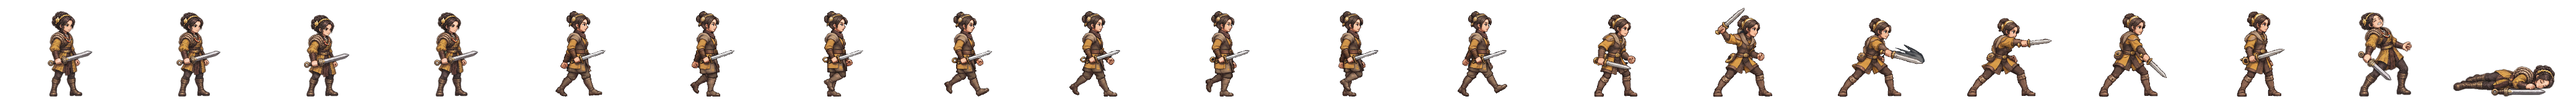
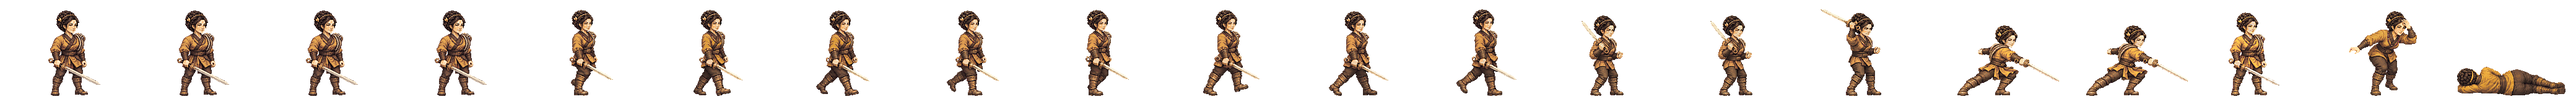
음즙 벌 새 전투 띠를 게임에 넣음(서기·걷기·한 손 칼 내려베기 여덟 칸·쓰러짐·칼날 닦기)
내려베기 a 판은 몸이 서기·b 판보다 가늘어 한 번 다시 그렸으나, 다시 그린 판은 보폭이 넓어 굽기에서 몸이 57px 튀었다. 발 자리가 맞는 앞 판을 씀.

Claude-Session: https://claude.ai/code/session_01TRiuN7s6aDfSnaHxrkctmU

diff --git a/src/realm/data/spritePx.ts b/src/realm/data/spritePx.ts
@@ -1,3 +1,3 @@
 /** public/realm/anim-px/manifest.json 의 사본 — tools/sprite-normalize.mjs 가 만든다 (손으로 고치지 말 것). 칸 [가로, 세로] · feet = 발 줄(칸 위에서 y) · bodyPx = 서 있는 몸 키 */
 import { expandManifest } from './sprite-manifest.ts'
-export const SPRITE_PX: Readonly<Record<string, { readonly cell: readonly [number, number]; readonly feet: number; readonly bodyPx: number; readonly kind: 'general' | 'soldier' | 'folk' | 'crowd'; readonly cells: number }>> = expandManifest<{ readonly cell: readonly [number, number]; readonly feet: number; readonly bodyPx: number; readonly kind: 'general' | 'soldier' | 'folk' | 'crowd'; readonly cells: number }>([{"cell":[166,128],"feet":126,"bodyPx":124,"kind":"soldier","cells":20},{"cell":[116,128],"feet":126,"bodyPx":117,"kind":"soldier","cells":20},{"cell":[127,128],"feet":126,"bodyPx":116,"kind":"soldier","cells":20},{"cell":[269,128],"feet":126,"bodyPx":126,"kind":"soldier","cells":20},{"cell":[503,128],"feet":126,"bodyPx":127,"kind":"soldier","cells":20},{"cell":[614,128],"feet":126,"bodyPx":126,"kind":"soldier","cells":20},{"cell":[200,160],"feet":156,"bodyPx":138,"kind":"general","cells":20},{"cell":[208,160],"feet":155,"bodyPx":138,"kind":"general","cells":20},{"cell":[208,160],"feet":154,"bodyPx":138,"kind":"general","cells":20},{"cell":[304,160],"feet":155,"bodyPx":135,"kind":"general","cells":20},{"cell":[224,160],"feet":156,"bodyPx":139,"kind":"general","cells":20},{"cell":[184,160],"feet":156,"bodyPx":138,"kind":"general","cells":20},{"cell":[208,160],"feet":154,"bodyPx":136,"kind":"general","cells":20},{"cell":[240,160],"feet":156,"bodyPx":138,"kind":"general","cells":20},{"cell":[232,160],"feet":156,"bodyPx":138,"kind":"general","cells":20},{"cell":[208,160],"feet":156,"bodyPx":138,"kind":"general","cells":20},{"cell":[168,160],"feet":156,"bodyPx":138,"kind":"general","cells":20},{"cell":[192,160],"feet":156,"bodyPx":138,"kind":"general","cells":20},{"cell":[168,160],"feet":156,"bodyPx":124,"kind":"general","cells":20},{"cell":[216,160],"feet":156,"bodyPx":130,"kind":"general","cells":20},{"cell":[200,160],"feet":156,"bodyPx":116,"kind":"general","cells":20},{"cell":[200,160],"feet":156,"bodyPx":135,"kind":"general","cells":20},{"cell":[280,160],"feet":156,"bodyPx":138,"kind":"general","cells":20},{"cell":[232,160],"feet":155,"bodyPx":138,"kind":"general","cells":20},{"cell":[232,160],"feet":156,"bodyPx":134,"kind":"general","cells":20},{"cell":[144,160],"feet":156,"bodyPx":70,"kind":"general","cells":20},{"cell":[208,160],"feet":156,"bodyPx":70,"kind":"general","cells":20},{"cell":[192,160],"feet":156,"bodyPx":70,"kind":"general","cells":20},{"cell":[240,160],"feet":155,"bodyPx":138,"kind":"general","cells":20},{"cell":[160,160],"feet":156,"bodyPx":135,"kind":"general","cells":20},{"cell":[192,160],"feet":156,"bodyPx":128,"kind":"general","cells":20},{"cell":[224,160],"feet":155,"bodyPx":138,"kind":"general","cells":20},{"cell":[232,160],"feet":156,"bodyPx":139,"kind":"general","cells":20},{"cell":[216,160],"feet":156,"bodyPx":138,"kind":"general","cells":20},{"cell":[208,160],"feet":156,"bodyPx":134,"kind":"general","cells":20},{"cell":[176,160],"feet":156,"bodyPx":130,"kind":"general","cells":20},{"cell":[248,160],"feet":156,"bodyPx":138,"kind":"general","cells":20},{"cell":[248,160],"feet":155,"bodyPx":138,"kind":"general","cells":20},{"cell":[192,160],"feet":155,"bodyPx":138,"kind":"general","cells":20},{"cell":[192,160],"feet":156,"bodyPx":124,"kind":"general","cells":20},{"cell":[208,160],"feet":154,"bodyPx":131,"kind":"general","cells":20},{"cell":[256,160],"feet":156,"bodyPx":138,"kind":"general","cells":20},{"cell":[232,160],"feet":156,"bodyPx":73,"kind":"general","cells":20},{"cell":[256,160],"feet":155,"bodyPx":138,"kind":"general","cells":20},{"cell":[264,160],"feet":156,"bodyPx":138,"kind":"general","cells":20},{"cell":[224,160],"feet":156,"bodyPx":138,"kind":"general","cells":20},{"cell":[224,160],"feet":156,"bodyPx":128,"kind":"general","cells":20},{"cell":[176,160],"feet":156,"bodyPx":129,"kind":"general","cells":20},{"cell":[208,160],"feet":154,"bodyPx":139,"kind":"general","cells":20},{"cell":[208,160],"feet":156,"bodyPx":132,"kind":"general","cells":20},{"cell":[216,160],"feet":155,"bodyPx":138,"kind":"general","cells":20},{"cell":[184,160],"feet":156,"bodyPx":122,"kind":"general","cells":20},{"cell":[176,160],"feet":156,"bodyPx":138,"kind":"general","cells":20},{"cell":[280,160],"feet":155,"bodyPx":133,"kind":"general","cells":20},{"cell":[176,160],"feet":156,"bodyPx":70,"kind":"general","cells":20},{"cell":[186,128],"feet":126,"bodyPx":127,"kind":"soldier","cells":20},{"cell":[298,128],"feet":126,"bodyPx":126,"kind":"soldier","cells":20},{"cell":[82,128],"feet":126,"bodyPx":114,"kind":"folk","cells":8},{"cell":[134,128],"feet":126,"bodyPx":119,"kind":"soldier","cells":20},{"cell":[380,128],"feet":126,"bodyPx":124,"kind":"soldier","cells":20},{"cell":[114,128],"feet":126,"bodyPx":115,"kind":"soldier","cells":20},{"cell":[122,128],"feet":126,"bodyPx":114,"kind":"soldier","cells":20},{"cell":[254,128],"feet":126,"bodyPx":128,"kind":"soldier","cells":20},{"cell":[438,128],"feet":126,"bodyPx":126,"kind":"soldier","cells":20},{"cell":[88,128],"feet":126,"bodyPx":113,"kind":"folk","cells":8},{"cell":[100,128],"feet":126,"bodyPx":115,"kind":"folk","cells":8},{"cell":[108,128],"feet":126,"bodyPx":115,"kind":"folk","cells":8},{"cell":[63,128],"feet":126,"bodyPx":113,"kind":"folk","cells":8},{"cell":[69,96],"feet":96,"bodyPx":96,"kind":"crowd","cells":1},{"cell":[54,96],"feet":96,"bodyPx":96,"kind":"crowd","cells":1},{"cell":[47,96],"feet":96,"bodyPx":96,"kind":"crowd","cells":1},{"cell":[49,96],"feet":96,"bodyPx":96,"kind":"crowd","cells":1},{"cell":[57,96],"feet":96,"bodyPx":96,"kind":"crowd","cells":1},{"cell":[55,96],"feet":96,"bodyPx":96,"kind":"crowd","cells":1},{"cell":[45,96],"feet":96,"bodyPx":96,"kind":"crowd","cells":1},{"cell":[53,96],"feet":96,"bodyPx":96,"kind":"crowd","cells":1},{"cell":[64,96],"feet":96,"bodyPx":96,"kind":"crowd","cells":1},{"cell":[184,160],"feet":156,"bodyPx":124,"kind":"general","cells":20},{"cell":[184,160],"feet":156,"bodyPx":134,"kind":"general","cells":20},{"cell":[224,160],"feet":156,"bodyPx":133,"kind":"general","cells":20},{"cell":[192,160],"feet":156,"bodyPx":135,"kind":"general","cells":20},{"cell":[184,160],"feet":156,"bodyPx":137,"kind":"general","cells":20},{"cell":[216,160],"feet":156,"bodyPx":134,"kind":"general","cells":20},{"cell":[216,160],"feet":156,"bodyPx":132,"kind":"general","cells":20},{"cell":[288,160],"feet":156,"bodyPx":138,"kind":"general","cells":20},{"cell":[192,160],"feet":156,"bodyPx":118,"kind":"general","cells":20},{"cell":[192,160],"feet":156,"bodyPx":134,"kind":"general","cells":20},{"cell":[192,160],"feet":157,"bodyPx":139,"kind":"general","cells":20},{"cell":[184,160],"feet":156,"bodyPx":128,"kind":"general","cells":20},{"cell":[240,160],"feet":156,"bodyPx":128,"kind":"general","cells":20},{"cell":[184,160],"feet":156,"bodyPx":132,"kind":"general","cells":20},{"cell":[208,160],"feet":156,"bodyPx":123,"kind":"general","cells":20},{"cell":[208,160],"feet":154,"bodyPx":137,"kind":"general","cells":20},{"cell":[176,160],"feet":156,"bodyPx":116,"kind":"general","cells":20},{"cell":[272,160],"feet":156,"bodyPx":138,"kind":"general","cells":20},{"cell":[176,160],"feet":156,"bodyPx":122,"kind":"general","cells":20},{"cell":[232,160],"feet":156,"bodyPx":127,"kind":"general","cells":20},{"cell":[176,160],"feet":156,"bodyPx":137,"kind":"general","cells":20},{"cell":[184,160],"feet":156,"bodyPx":133,"kind":"general","cells":20}],[["axe",0],["bandit-chief",1],["bandit-club",2],["boat",3],["bow",4],["crossbow",5],["gen-adogan",6],["gen-alpyeong",7],["gen-ara",8],["gen-areum",8],["gen-aryeong",9],["gen-bakdal",6],["gen-baram",10],["gen-bdanbi",11],["gen-beom",12],["gen-beombal",11],["gen-beomi",13],["gen-bira",14],["gen-biryu",15],["gen-budeul",16],["gen-byeol",17],["gen-daemusin",18],["gen-daeso",19],["gen-dallae2",11],["gen-dalli",11],["gen-damul",20],["gen-danbi",15],["gen-dangung",17],["gen-darae",21],["gen-dokmudeom",7],["gen-duman",22],["gen-eomni",23],["gen-eureum",24],["gen-g-bow",25],["gen-g-spear",26],["gen-g-sword",27],["gen-gaennae",6],["gen-gamsil",28],["gen-gaon",29],["gen-geota",15],["gen-geumbawi",11],["gen-geumha",30],["gen-goeun",15],["gen-gom",31],["gen-gomok",15],["gen-gureum",28],["gen-guryema",17],["gen-gwaeyu",14],["gen-haebi",8],["gen-haedal",6],["gen-haesol",32],["gen-halla",7],["gen-heo",8],["gen-hneoul",11],["gen-hogong",33],["gen-hojin",15],["gen-horselord",34],["gen-hwalmi",35],["gen-hyeokgeose",17],["gen-hyeopbo",6],["gen-irang",15],["gen-jibaekho",36],["gen-jinha",37],["gen-jita",38],["gen-jumong",39],["gen-keundol",7],["gen-maehwa",40],["gen-maenun",17],["gen-malgalgi",41],["gen-mari",13],["gen-maro",36],["gen-maryeo",15],["gen-mdallae",32],["gen-mir",6],["gen-mount",42],["gen-mulbeom",43],["gen-mulsae",33],["gen-musoe",33],["gen-noeul",8],["gen-nuri",44],["gen-ocheongan",45],["gen-odi",37],["gen-odogan",6],["gen-ogan",17],["gen-oi",46],["gen-olddaeso",24],["gen-onjo",47],["gen-pidogan",15],["gen-sagong",48],["gen-sdallae",6],["gen-sincheongan",33],["gen-singwigan",33],["gen-sinneoul",8],["gen-sobeol",23],["gen-soebi",6],["gen-soebo",49],["gen-soenun",36],["gen-sogeumbi",50],["gen-songbi",45],["gen-songyang",51],["gen-sori",52],["gen-soseono",53],["gen-suro",17],["gen-tahae",6],["gen-tneoul",45],["gen-w-bow",25],["gen-w-spear",54],["gen-waechief",15],["gen-wan",33],["gen-yeodogan",15],["gen-yucheongan",15],["gen-yusugan",36],["horse",55],["marine",56],["migrant",57],["militia",58],["pike",59],["pirate-captain",60],["pirate-sword",61],["shield",62],["spear",63],["villager-builder",64],["villager-farmer",65],["villager-porter",66],["villager-woman",67],["crowd-b1",68],["crowd-b2",69],["crowd-b3",70],["crowd-b4",71],["crowd-b5",72],["crowd-b6",73],["crowd-f1",68],["crowd-f2",73],["crowd-f3",74],["crowd-f4",75],["crowd-f5",68],["crowd-f6",76],["gen-dalbit",15],["gen-base-g-07-drunk-warrior",17],["gen-base-g-40-anya-adan",15],["gen-base-w-13-young-archer",8],["gen-base-g-03-sea-trader",13],["gen-base-w-10-pirate-captain",48],["gen-base-w-64-miri-dallae",48],["gen-base-g-41-goja-bau",13],["gen-base-g-42-dokro-garam",44],["gen-base-g-09-farmer-conscript",33],["gen-base-w-02-goguryeo-lady",33],["gen-base-w-17-mahan-pearl-diver",8],["gen-base-g-17-saro-isageum",49],["gen-base-g-18-daegaya-king",77],["gen-base-g-35-dabeol-dalgu",15],["gen-base-g-19-sabeol-veteran",33],["gen-base-w-23-usisan-whale-queen",8],["gen-base-g-36-gammun-gamdol",45],["gen-base-g-20-samul-sea-lord",41],["gen-base-g-37-eumjeup-jeup",11],["gen-base-g-38-chopal-palmae",17],["gen-base-w-75-daegaya-soemoe",17],["gen-base-g-45-dabeol-deulgae",11],["gen-base-g-04-jinhan-giant",15],["gen-base-g-08-veteran",15],["gen-base-w-18-jinhan-salt-widow",15],["gen-base-w-12-court-dancer",78],["gen-base-w-83-gyeonji-beodeul",79],["gen-base-w-05-baekje-queen",80],["gen-base-w-21-baekje-court-dancer",11],["gen-base-g-01-master-smith",81],["gen-base-g-93-jomun-solgae",35],["gen-base-g-57-bihwa-neup",13],["gen-base-w-72-eumjeup-beol",15],["gen-base-w-102-garak-dana",33],["gen-base-g-68-baekje-onnuri",15],["gen-base-w-27-mokji-jinha",6],["gen-base-g-22-ungcheon-gomnae",6],["gen-base-g-23-sangdang-soedal",15],["gen-base-g-24-wansan-onsan",6],["gen-base-g-25-balla-keunmoe",33],["gen-base-g-61-heomcheuk-bawi",33],["gen-base-g-88-wander-soeul",45],["gen-base-w-14-feast-spy",6],["gen-base-g-12-silla-youth",82],["gen-base-w-08-mahan-warrior",8],["gen-base-g-62-beonye-hanul",13],["gen-base-g-63-heomcheuk-beogeum",15],["gen-base-g-84-wander-seoneul",15],["gen-base-w-50-siljik-mulga",33],["gen-base-g-46-uga-nureongso",33],["gen-base-w-80-usan-gangchi",13],["gen-base-g-47-guga-sanyanggae",33],["gen-base-w-76-gampyeong-baetsagong",36],["gen-base-g-05-mahan-chieftain",83],["gen-base-g-58-usan-uhae",15],["gen-base-g-27-maek-maekdol",15],["gen-base-w-53-hwanna-gabi",16],["gen-base-w-29-golpo-janmul",36],["gen-base-g-53-baekje-haeru",6],["gen-base-w-71-yeonna-neoul",13],["gen-base-w-79-yangmaek-solmae",33],["gen-base-w-34-chopal-deulme",44],["gen-base-g-44-maga-malgup",84],["gen-base-w-31-dabeol-dalbit",48],["gen-base-g-51-biryuna-mulgyeol",45],["gen-base-g-48-gwanna-musoe",15],["gen-base-g-32-uga-sodu",14],["gen-base-g-49-goguryeo-sona",85],["gen-base-g-30-gwanna-soemoe",45],["gen-base-g-52-tamna-oreum",11],["gen-base-g-29-yeonna-myeongsol",39],["gen-base-w-56-dongokjeo-sogeum",86],["gen-base-g-54-mokji-mahan",14],["gen-base-g-33-jeoga-metdol",17],["gen-base-w-36-baekje-maena",17],["gen-base-w-38-sangdang-bulmae",6],["gen-base-w-39-gosaburi-galmae",87],["gen-base-w-40-mujin-munui",49],["gen-base-w-41-hwanna-beodeul",88],["gen-base-w-43-uga-nuri",41],["gen-base-w-45-tamna-oreumbi",11],["gen-base-g-60-golbeol-golgae",11],["gen-base-g-61-apdok-ap",33],["gen-base-g-62-gammun-gamnamu",6],["gen-base-g-63-chopal-yeoul",36],["gen-base-g-64-michuhol-sogeumkkun",13],["gen-base-g-65-sangdang-soemangchi",45],["gen-base-g-66-geonma-malbalgup",89],["gen-base-g-67-gosaburi-buri",90],["gen-base-g-68-mujin-bitgoeul",11],["gen-base-g-69-goryong-yong",45],["gen-base-g-70-siljik-pado",13],["gen-base-w-81-byeokjin-byeolbit",14],["gen-base-w-46-geonma-maru",36],["gen-base-w-48-mujin-mudeung",13],["gen-base-g-26-gampyeong-gaetbeol",14],["gen-base-g-60-eupcha-hangyeol",91],["gen-base-g-15-shaman-man",33],["gen-base-g-85-wander-ure",36],["gen-base-g-43-hwanna-amnok",15],["gen-base-g-50-bullae-gwaha",80],["gen-base-g-55-saro-bakdal",15],["gen-base-g-56-haseulla-gwahama",6],["gen-base-w-06-buyeo-huntress",92],["gen-base-w-22-dongye-tiger-huntress",8],["gen-base-w-25-bihwa-priestess",33],["gen-base-w-24-apdok-queen",11],["gen-base-w-61-iseo-sinae",15],["gen-base-w-26-iseo-tomboy-general",8],["gen-base-g-59-yangmaek-maekson",93],["gen-aw1-haebi",45],["gen-aw1-soseono",94],["gen-aw1-gamsil",11],["gen-aw1-mir",52],["gen-aw1-dangung",6],["gen-aw1-ara",45],["gen-aw1-jumong",95],["gen-aw1-onjo",96],["gen-aw1-base-w-83-gyeonji-beodeul",17],["gen-aw1-heo",44],["gen-aw1-base-g-38-chopal-palmae",6],["gen-aw1-base-w-25-bihwa-priestess",78],["gen-aw1-sori",16],["gen-aw1-gomok",6],["gen-aw1-irang",17],["gen-aw1-budeul",16],["gen-aw1-gom",13],["gen-aw1-sdallae",6],["gen-aw1-base-w-13-young-archer",6],["gen-aw1-base-w-36-baekje-maena",97],["gen-aw1-base-g-09-farmer-conscript",44],["gen-aw1-base-w-02-goguryeo-lady",98],["gen-aw1-haedal",11],["gen-aw1-hogong",6],["gen-aw1-maehwa",52],["gen-aw1-base-w-06-buyeo-huntress",14],["gen-aw1-base-w-08-mahan-warrior",45],["gen-aw1-base-w-29-golpo-janmul",45],["gen-aw1-base-w-31-dabeol-dalbit",17],["gen-aw1-base-w-38-sangdang-bulmae",16],["gen-aw1-bira",33],["gen-aw1-base-w-53-hwanna-gabi",16],["gen-aw1-base-w-56-dongokjeo-sogeum",52],["gen-aw1-base-w-72-eumjeup-beol",17],["gen-aw1-bdanbi",16],["gen-aw1-beom",11],["gen-aw1-beombal",11],["gen-aw1-byeol",17],["gen-aw1-dalli",52],["gen-aw1-malgalgi",36],["gen-aw1-sincheongan",33]])
+export const SPRITE_PX: Readonly<Record<string, { readonly cell: readonly [number, number]; readonly feet: number; readonly bodyPx: number; readonly kind: 'general' | 'soldier' | 'folk' | 'crowd'; readonly cells: number }>> = expandManifest<{ readonly cell: readonly [number, number]; readonly feet: number; readonly bodyPx: number; readonly kind: 'general' | 'soldier' | 'folk' | 'crowd'; readonly cells: number }>([{"cell":[166,128],"feet":126,"bodyPx":124,"kind":"soldier","cells":20},{"cell":[116,128],"feet":126,"bodyPx":117,"kind":"soldier","cells":20},{"cell":[127,128],"feet":126,"bodyPx":116,"kind":"soldier","cells":20},{"cell":[269,128],"feet":126,"bodyPx":126,"kind":"soldier","cells":20},{"cell":[503,128],"feet":126,"bodyPx":127,"kind":"soldier","cells":20},{"cell":[614,128],"feet":126,"bodyPx":126,"kind":"soldier","cells":20},{"cell":[200,160],"feet":156,"bodyPx":138,"kind":"general","cells":20},{"cell":[208,160],"feet":155,"bodyPx":138,"kind":"general","cells":20},{"cell":[208,160],"feet":154,"bodyPx":138,"kind":"general","cells":20},{"cell":[304,160],"feet":155,"bodyPx":135,"kind":"general","cells":20},{"cell":[224,160],"feet":156,"bodyPx":139,"kind":"general","cells":20},{"cell":[184,160],"feet":156,"bodyPx":138,"kind":"general","cells":20},{"cell":[208,160],"feet":154,"bodyPx":136,"kind":"general","cells":20},{"cell":[240,160],"feet":156,"bodyPx":138,"kind":"general","cells":20},{"cell":[232,160],"feet":156,"bodyPx":138,"kind":"general","cells":20},{"cell":[208,160],"feet":156,"bodyPx":138,"kind":"general","cells":20},{"cell":[168,160],"feet":156,"bodyPx":138,"kind":"general","cells":20},{"cell":[192,160],"feet":156,"bodyPx":138,"kind":"general","cells":20},{"cell":[168,160],"feet":156,"bodyPx":124,"kind":"general","cells":20},{"cell":[216,160],"feet":156,"bodyPx":130,"kind":"general","cells":20},{"cell":[200,160],"feet":156,"bodyPx":116,"kind":"general","cells":20},{"cell":[200,160],"feet":156,"bodyPx":135,"kind":"general","cells":20},{"cell":[280,160],"feet":156,"bodyPx":138,"kind":"general","cells":20},{"cell":[232,160],"feet":155,"bodyPx":138,"kind":"general","cells":20},{"cell":[232,160],"feet":156,"bodyPx":134,"kind":"general","cells":20},{"cell":[144,160],"feet":156,"bodyPx":70,"kind":"general","cells":20},{"cell":[208,160],"feet":156,"bodyPx":70,"kind":"general","cells":20},{"cell":[192,160],"feet":156,"bodyPx":70,"kind":"general","cells":20},{"cell":[240,160],"feet":155,"bodyPx":138,"kind":"general","cells":20},{"cell":[160,160],"feet":156,"bodyPx":135,"kind":"general","cells":20},{"cell":[192,160],"feet":156,"bodyPx":128,"kind":"general","cells":20},{"cell":[224,160],"feet":155,"bodyPx":138,"kind":"general","cells":20},{"cell":[232,160],"feet":156,"bodyPx":139,"kind":"general","cells":20},{"cell":[216,160],"feet":156,"bodyPx":138,"kind":"general","cells":20},{"cell":[208,160],"feet":156,"bodyPx":134,"kind":"general","cells":20},{"cell":[176,160],"feet":156,"bodyPx":130,"kind":"general","cells":20},{"cell":[248,160],"feet":156,"bodyPx":138,"kind":"general","cells":20},{"cell":[248,160],"feet":155,"bodyPx":138,"kind":"general","cells":20},{"cell":[192,160],"feet":155,"bodyPx":138,"kind":"general","cells":20},{"cell":[192,160],"feet":156,"bodyPx":124,"kind":"general","cells":20},{"cell":[208,160],"feet":154,"bodyPx":131,"kind":"general","cells":20},{"cell":[256,160],"feet":156,"bodyPx":138,"kind":"general","cells":20},{"cell":[232,160],"feet":156,"bodyPx":73,"kind":"general","cells":20},{"cell":[256,160],"feet":155,"bodyPx":138,"kind":"general","cells":20},{"cell":[264,160],"feet":156,"bodyPx":138,"kind":"general","cells":20},{"cell":[224,160],"feet":156,"bodyPx":138,"kind":"general","cells":20},{"cell":[224,160],"feet":156,"bodyPx":128,"kind":"general","cells":20},{"cell":[176,160],"feet":156,"bodyPx":129,"kind":"general","cells":20},{"cell":[208,160],"feet":154,"bodyPx":139,"kind":"general","cells":20},{"cell":[208,160],"feet":156,"bodyPx":132,"kind":"general","cells":20},{"cell":[216,160],"feet":155,"bodyPx":138,"kind":"general","cells":20},{"cell":[184,160],"feet":156,"bodyPx":122,"kind":"general","cells":20},{"cell":[176,160],"feet":156,"bodyPx":138,"kind":"general","cells":20},{"cell":[280,160],"feet":155,"bodyPx":133,"kind":"general","cells":20},{"cell":[176,160],"feet":156,"bodyPx":70,"kind":"general","cells":20},{"cell":[186,128],"feet":126,"bodyPx":127,"kind":"soldier","cells":20},{"cell":[298,128],"feet":126,"bodyPx":126,"kind":"soldier","cells":20},{"cell":[82,128],"feet":126,"bodyPx":114,"kind":"folk","cells":8},{"cell":[134,128],"feet":126,"bodyPx":119,"kind":"soldier","cells":20},{"cell":[380,128],"feet":126,"bodyPx":124,"kind":"soldier","cells":20},{"cell":[114,128],"feet":126,"bodyPx":115,"kind":"soldier","cells":20},{"cell":[122,128],"feet":126,"bodyPx":114,"kind":"soldier","cells":20},{"cell":[254,128],"feet":126,"bodyPx":128,"kind":"soldier","cells":20},{"cell":[438,128],"feet":126,"bodyPx":126,"kind":"soldier","cells":20},{"cell":[88,128],"feet":126,"bodyPx":113,"kind":"folk","cells":8},{"cell":[100,128],"feet":126,"bodyPx":115,"kind":"folk","cells":8},{"cell":[108,128],"feet":126,"bodyPx":115,"kind":"folk","cells":8},{"cell":[63,128],"feet":126,"bodyPx":113,"kind":"folk","cells":8},{"cell":[69,96],"feet":96,"bodyPx":96,"kind":"crowd","cells":1},{"cell":[54,96],"feet":96,"bodyPx":96,"kind":"crowd","cells":1},{"cell":[47,96],"feet":96,"bodyPx":96,"kind":"crowd","cells":1},{"cell":[49,96],"feet":96,"bodyPx":96,"kind":"crowd","cells":1},{"cell":[57,96],"feet":96,"bodyPx":96,"kind":"crowd","cells":1},{"cell":[55,96],"feet":96,"bodyPx":96,"kind":"crowd","cells":1},{"cell":[45,96],"feet":96,"bodyPx":96,"kind":"crowd","cells":1},{"cell":[53,96],"feet":96,"bodyPx":96,"kind":"crowd","cells":1},{"cell":[64,96],"feet":96,"bodyPx":96,"kind":"crowd","cells":1},{"cell":[184,160],"feet":156,"bodyPx":124,"kind":"general","cells":20},{"cell":[184,160],"feet":156,"bodyPx":134,"kind":"general","cells":20},{"cell":[224,160],"feet":156,"bodyPx":133,"kind":"general","cells":20},{"cell":[192,160],"feet":156,"bodyPx":135,"kind":"general","cells":20},{"cell":[184,160],"feet":156,"bodyPx":137,"kind":"general","cells":20},{"cell":[216,160],"feet":156,"bodyPx":134,"kind":"general","cells":20},{"cell":[216,160],"feet":156,"bodyPx":132,"kind":"general","cells":20},{"cell":[288,160],"feet":156,"bodyPx":138,"kind":"general","cells":20},{"cell":[192,160],"feet":156,"bodyPx":118,"kind":"general","cells":20},{"cell":[192,160],"feet":156,"bodyPx":134,"kind":"general","cells":20},{"cell":[192,160],"feet":157,"bodyPx":139,"kind":"general","cells":20},{"cell":[184,160],"feet":156,"bodyPx":128,"kind":"general","cells":20},{"cell":[240,160],"feet":156,"bodyPx":128,"kind":"general","cells":20},{"cell":[184,160],"feet":156,"bodyPx":132,"kind":"general","cells":20},{"cell":[208,160],"feet":156,"bodyPx":123,"kind":"general","cells":20},{"cell":[208,160],"feet":154,"bodyPx":137,"kind":"general","cells":20},{"cell":[176,160],"feet":156,"bodyPx":116,"kind":"general","cells":20},{"cell":[272,160],"feet":156,"bodyPx":138,"kind":"general","cells":20},{"cell":[176,160],"feet":156,"bodyPx":122,"kind":"general","cells":20},{"cell":[232,160],"feet":156,"bodyPx":127,"kind":"general","cells":20},{"cell":[176,160],"feet":156,"bodyPx":137,"kind":"general","cells":20},{"cell":[184,160],"feet":156,"bodyPx":133,"kind":"general","cells":20}],[["axe",0],["bandit-chief",1],["bandit-club",2],["boat",3],["bow",4],["crossbow",5],["gen-adogan",6],["gen-alpyeong",7],["gen-ara",8],["gen-areum",8],["gen-aryeong",9],["gen-bakdal",6],["gen-baram",10],["gen-bdanbi",11],["gen-beom",12],["gen-beombal",11],["gen-beomi",13],["gen-bira",14],["gen-biryu",15],["gen-budeul",16],["gen-byeol",17],["gen-daemusin",18],["gen-daeso",19],["gen-dallae2",11],["gen-dalli",11],["gen-damul",20],["gen-danbi",15],["gen-dangung",17],["gen-darae",21],["gen-dokmudeom",7],["gen-duman",22],["gen-eomni",23],["gen-eureum",24],["gen-g-bow",25],["gen-g-spear",26],["gen-g-sword",27],["gen-gaennae",6],["gen-gamsil",28],["gen-gaon",29],["gen-geota",15],["gen-geumbawi",11],["gen-geumha",30],["gen-goeun",15],["gen-gom",31],["gen-gomok",15],["gen-gureum",28],["gen-guryema",17],["gen-gwaeyu",14],["gen-haebi",8],["gen-haedal",6],["gen-haesol",32],["gen-halla",7],["gen-heo",8],["gen-hneoul",11],["gen-hogong",33],["gen-hojin",15],["gen-horselord",34],["gen-hwalmi",35],["gen-hyeokgeose",17],["gen-hyeopbo",6],["gen-irang",15],["gen-jibaekho",36],["gen-jinha",37],["gen-jita",38],["gen-jumong",39],["gen-keundol",7],["gen-maehwa",40],["gen-maenun",17],["gen-malgalgi",41],["gen-mari",13],["gen-maro",36],["gen-maryeo",15],["gen-mdallae",32],["gen-mir",6],["gen-mount",42],["gen-mulbeom",43],["gen-mulsae",33],["gen-musoe",33],["gen-noeul",8],["gen-nuri",44],["gen-ocheongan",45],["gen-odi",37],["gen-odogan",6],["gen-ogan",17],["gen-oi",46],["gen-olddaeso",24],["gen-onjo",47],["gen-pidogan",15],["gen-sagong",48],["gen-sdallae",6],["gen-sincheongan",33],["gen-singwigan",33],["gen-sinneoul",8],["gen-sobeol",23],["gen-soebi",6],["gen-soebo",49],["gen-soenun",36],["gen-sogeumbi",50],["gen-songbi",45],["gen-songyang",51],["gen-sori",52],["gen-soseono",53],["gen-suro",17],["gen-tahae",6],["gen-tneoul",45],["gen-w-bow",25],["gen-w-spear",54],["gen-waechief",15],["gen-wan",33],["gen-yeodogan",15],["gen-yucheongan",15],["gen-yusugan",36],["horse",55],["marine",56],["migrant",57],["militia",58],["pike",59],["pirate-captain",60],["pirate-sword",61],["shield",62],["spear",63],["villager-builder",64],["villager-farmer",65],["villager-porter",66],["villager-woman",67],["crowd-b1",68],["crowd-b2",69],["crowd-b3",70],["crowd-b4",71],["crowd-b5",72],["crowd-b6",73],["crowd-f1",68],["crowd-f2",73],["crowd-f3",74],["crowd-f4",75],["crowd-f5",68],["crowd-f6",76],["gen-dalbit",15],["gen-base-g-07-drunk-warrior",17],["gen-base-g-40-anya-adan",15],["gen-base-w-13-young-archer",8],["gen-base-g-03-sea-trader",13],["gen-base-w-10-pirate-captain",48],["gen-base-w-64-miri-dallae",48],["gen-base-g-41-goja-bau",13],["gen-base-g-42-dokro-garam",44],["gen-base-g-09-farmer-conscript",33],["gen-base-w-02-goguryeo-lady",33],["gen-base-w-17-mahan-pearl-diver",8],["gen-base-g-17-saro-isageum",49],["gen-base-g-18-daegaya-king",77],["gen-base-g-35-dabeol-dalgu",15],["gen-base-g-19-sabeol-veteran",33],["gen-base-w-23-usisan-whale-queen",8],["gen-base-g-36-gammun-gamdol",45],["gen-base-g-20-samul-sea-lord",41],["gen-base-g-37-eumjeup-jeup",11],["gen-base-g-38-chopal-palmae",17],["gen-base-w-75-daegaya-soemoe",17],["gen-base-g-45-dabeol-deulgae",11],["gen-base-g-04-jinhan-giant",15],["gen-base-g-08-veteran",15],["gen-base-w-18-jinhan-salt-widow",15],["gen-base-w-12-court-dancer",78],["gen-base-w-83-gyeonji-beodeul",79],["gen-base-w-05-baekje-queen",80],["gen-base-w-21-baekje-court-dancer",11],["gen-base-g-01-master-smith",81],["gen-base-g-93-jomun-solgae",35],["gen-base-g-57-bihwa-neup",13],["gen-base-w-72-eumjeup-beol",8],["gen-base-w-102-garak-dana",33],["gen-base-g-68-baekje-onnuri",15],["gen-base-w-27-mokji-jinha",6],["gen-base-g-22-ungcheon-gomnae",6],["gen-base-g-23-sangdang-soedal",15],["gen-base-g-24-wansan-onsan",6],["gen-base-g-25-balla-keunmoe",33],["gen-base-g-61-heomcheuk-bawi",33],["gen-base-g-88-wander-soeul",45],["gen-base-w-14-feast-spy",6],["gen-base-g-12-silla-youth",82],["gen-base-w-08-mahan-warrior",8],["gen-base-g-62-beonye-hanul",13],["gen-base-g-63-heomcheuk-beogeum",15],["gen-base-g-84-wander-seoneul",15],["gen-base-w-50-siljik-mulga",33],["gen-base-g-46-uga-nureongso",33],["gen-base-w-80-usan-gangchi",13],["gen-base-g-47-guga-sanyanggae",33],["gen-base-w-76-gampyeong-baetsagong",36],["gen-base-g-05-mahan-chieftain",83],["gen-base-g-58-usan-uhae",15],["gen-base-g-27-maek-maekdol",15],["gen-base-w-53-hwanna-gabi",16],["gen-base-w-29-golpo-janmul",36],["gen-base-g-53-baekje-haeru",6],["gen-base-w-71-yeonna-neoul",13],["gen-base-w-79-yangmaek-solmae",33],["gen-base-w-34-chopal-deulme",44],["gen-base-g-44-maga-malgup",84],["gen-base-w-31-dabeol-dalbit",48],["gen-base-g-51-biryuna-mulgyeol",45],["gen-base-g-48-gwanna-musoe",15],["gen-base-g-32-uga-sodu",14],["gen-base-g-49-goguryeo-sona",85],["gen-base-g-30-gwanna-soemoe",45],["gen-base-g-52-tamna-oreum",11],["gen-base-g-29-yeonna-myeongsol",39],["gen-base-w-56-dongokjeo-sogeum",86],["gen-base-g-54-mokji-mahan",14],["gen-base-g-33-jeoga-metdol",17],["gen-base-w-36-baekje-maena",17],["gen-base-w-38-sangdang-bulmae",6],["gen-base-w-39-gosaburi-galmae",87],["gen-base-w-40-mujin-munui",49],["gen-base-w-41-hwanna-beodeul",88],["gen-base-w-43-uga-nuri",41],["gen-base-w-45-tamna-oreumbi",11],["gen-base-g-60-golbeol-golgae",11],["gen-base-g-61-apdok-ap",33],["gen-base-g-62-gammun-gamnamu",6],["gen-base-g-63-chopal-yeoul",36],["gen-base-g-64-michuhol-sogeumkkun",13],["gen-base-g-65-sangdang-soemangchi",45],["gen-base-g-66-geonma-malbalgup",89],["gen-base-g-67-gosaburi-buri",90],["gen-base-g-68-mujin-bitgoeul",11],["gen-base-g-69-goryong-yong",45],["gen-base-g-70-siljik-pado",13],["gen-base-w-81-byeokjin-byeolbit",14],["gen-base-w-46-geonma-maru",36],["gen-base-w-48-mujin-mudeung",13],["gen-base-g-26-gampyeong-gaetbeol",14],["gen-base-g-60-eupcha-hangyeol",91],["gen-base-g-15-shaman-man",33],["gen-base-g-85-wander-ure",36],["gen-base-g-43-hwanna-amnok",15],["gen-base-g-50-bullae-gwaha",80],["gen-base-g-55-saro-bakdal",15],["gen-base-g-56-haseulla-gwahama",6],["gen-base-w-06-buyeo-huntress",92],["gen-base-w-22-dongye-tiger-huntress",8],["gen-base-w-25-bihwa-priestess",33],["gen-base-w-24-apdok-queen",11],["gen-base-w-61-iseo-sinae",15],["gen-base-w-26-iseo-tomboy-general",8],["gen-base-g-59-yangmaek-maekson",93],["gen-aw1-haebi",45],["gen-aw1-soseono",94],["gen-aw1-gamsil",11],["gen-aw1-mir",52],["gen-aw1-dangung",6],["gen-aw1-ara",45],["gen-aw1-jumong",95],["gen-aw1-onjo",96],["gen-aw1-base-w-83-gyeonji-beodeul",17],["gen-aw1-heo",44],["gen-aw1-base-g-38-chopal-palmae",6],["gen-aw1-base-w-25-bihwa-priestess",78],["gen-aw1-sori",16],["gen-aw1-gomok",6],["gen-aw1-irang",17],["gen-aw1-budeul",16],["gen-aw1-gom",13],["gen-aw1-sdallae",6],["gen-aw1-base-w-13-young-archer",6],["gen-aw1-base-w-36-baekje-maena",97],["gen-aw1-base-g-09-farmer-conscript",44],["gen-aw1-base-w-02-goguryeo-lady",98],["gen-aw1-haedal",11],["gen-aw1-hogong",6],["gen-aw1-maehwa",52],["gen-aw1-base-w-06-buyeo-huntress",14],["gen-aw1-base-w-08-mahan-warrior",45],["gen-aw1-base-w-29-golpo-janmul",45],["gen-aw1-base-w-31-dabeol-dalbit",17],["gen-aw1-base-w-38-sangdang-bulmae",16],["gen-aw1-bira",33],["gen-aw1-base-w-53-hwanna-gabi",16],["gen-aw1-base-w-56-dongokjeo-sogeum",52],["gen-aw1-base-w-72-eumjeup-beol",17],["gen-aw1-bdanbi",16],["gen-aw1-beom",11],["gen-aw1-beombal",11],["gen-aw1-byeol",17],["gen-aw1-dalli",52],["gen-aw1-malgalgi",36],["gen-aw1-sincheongan",33]])

diff --git a/src/duel/view.ts b/src/duel/view.ts
@@ -100,7 +100,7 @@ const crowdFront = [1, 2, 3, 4, 5, 6].map((i) => img(`realm/duel/crowd/b${i}.png
 const crowdReady = (set: HTMLImageElement[]): boolean => set.every((im) => im.complete && im.naturalWidth > 0)
 const pxMode = cfg.px !== false && params.get('px') !== '0'
 /** 겨루기 전용 옛 띠(duel/sprites) 대신 열전과 같은 도트 띠(anim-px)를 쓰는 장수 — 두 판에서 같은 모습 · 서기 계획·쓰러지는 칸도 같다 (11-23 범 · 매화 · 달빛 · 11-24 해비 · 아룸) */
-const PX_DUEL: ReadonlySet<string> = new Set(['beom', 'maehwa', 'base-w-31-dabeol-dalbit', 'haebi', 'areum', 'base-w-13-young-archer', 'base-w-10-pirate-captain', 'base-w-17-mahan-pearl-diver', 'base-w-06-buyeo-huntress', 'base-w-64-miri-dallae', 'ara', 'base-w-22-dongye-tiger-huntress', 'noeul', 'sagong', 'sinneoul', 'heo', 'base-w-08-mahan-warrior', 'base-w-23-usisan-whale-queen', 'base-w-26-iseo-tomboy-general'])
+const PX_DUEL: ReadonlySet<string> = new Set(['beom', 'maehwa', 'base-w-31-dabeol-dalbit', 'haebi', 'areum', 'base-w-13-young-archer', 'base-w-10-pirate-captain', 'base-w-17-mahan-pearl-diver', 'base-w-06-buyeo-huntress', 'base-w-64-miri-dallae', 'ara', 'base-w-22-dongye-tiger-huntress', 'noeul', 'sagong', 'sinneoul', 'heo', 'base-w-08-mahan-warrior', 'base-w-23-usisan-whale-queen', 'base-w-26-iseo-tomboy-general', 'base-w-72-eumjeup-beol'])
 /** 띠 그림 — 기본은 anim-px(도트 규격) 먼저, 없으면 옛 띠로 (img 의 onerror 가 갈아 끼운다) */
 const strip = (s: string): HTMLImageElement => pxMode
   ? DUEL_ATLASES[s] !== undefined && !PX_DUEL.has(s) ? img(`realm/duel/sprites/gen-${s}.png`, `realm/anim-px/gen-${s}.png`)

diff --git a/src/tune/params.ts b/src/tune/params.ts
@@ -1429,6 +1429,7 @@ export const HAEBI_IDLE = {
     'base-w-08-mahan-warrior': { cells: 34, base: [0, 1], hold: 2.4, fall: [18, 20, 21, 19], quirk: [22, 23, 24, 25], quirkTimes: [.3, .32, .4, .28], attack: { cells: [26, 27, 28, 29, 30, 31, 32, 33], times: [.09, .08, .11, .05, .15, .07, .08, .12], hit: 4 }, xGeom: { h: 224, root: 92, foot: 216 } },
     'base-w-23-usisan-whale-queen': { cells: 34, base: [0, 1], hold: 2.4, fall: [18, 20, 21, 19], quirk: [22, 23, 24, 25], quirkTimes: [.3, .32, .4, .28], attack: { cells: [26, 27, 28, 29, 30, 31, 32, 33], times: [.09, .08, .11, .05, .15, .07, .08, .12], hit: 4 }, xGeom: { h: 224, root: 92, foot: 216 } },
     'base-w-26-iseo-tomboy-general': { cells: 34, base: [0, 1], hold: 2.4, fall: [18, 20, 21, 19], quirk: [22, 23, 24, 25], quirkTimes: [.3, .32, .4, .28], attack: { cells: [26, 27, 28, 29, 30, 31, 32, 33], times: [.09, .08, .11, .05, .15, .07, .08, .12], hit: 4 }, xGeom: { h: 224, root: 92, foot: 216 } },
+    'base-w-72-eumjeup-beol': { cells: 34, base: [0, 1], hold: 2.4, fall: [18, 20, 21, 19], quirk: [22, 23, 24, 25], quirkTimes: [.3, .32, .4, .28], attack: { cells: [26, 27, 28, 29, 30, 31, 32, 33], times: [.09, .08, .11, .05, .15, .07, .08, .12], hit: 4 }, xGeom: { h: 224, root: 92, foot: 216 } },
   },
 } as const
 export const HAEBI_ANIM = {

diff --git a/src/raid/hero-hd.ts b/src/raid/hero-hd.ts
@@ -12,7 +12,6 @@ export const HERO_HD: Readonly<Record<string, string>> = {
   'anim-px/gen-base-w-79-yangmaek-solmae.png': 'anim-px/gen-base-w-79-yangmaek-solmae_hd.png',
   'anim-px/gen-base-w-76-gampyeong-baetsagong.png': 'anim-px/gen-base-w-76-gampyeong-baetsagong_hd.png',
   'anim-px/gen-base-w-75-daegaya-soemoe.png': 'anim-px/gen-base-w-75-daegaya-soemoe_hd.png',
-  'anim-px/gen-base-w-72-eumjeup-beol.png': 'anim-px/gen-base-w-72-eumjeup-beol_hd.png',
   'anim-px/gen-base-w-71-yeonna-neoul.png': 'anim-px/gen-base-w-71-yeonna-neoul_hd.png',
   'anim-px/gen-base-w-61-iseo-sinae.png': 'anim-px/gen-base-w-61-iseo-sinae_hd.png',
   'anim-px/gen-base-w-53-hwanna-gabi.png': 'anim-px/gen-base-w-53-hwanna-gabi_hd.png',
